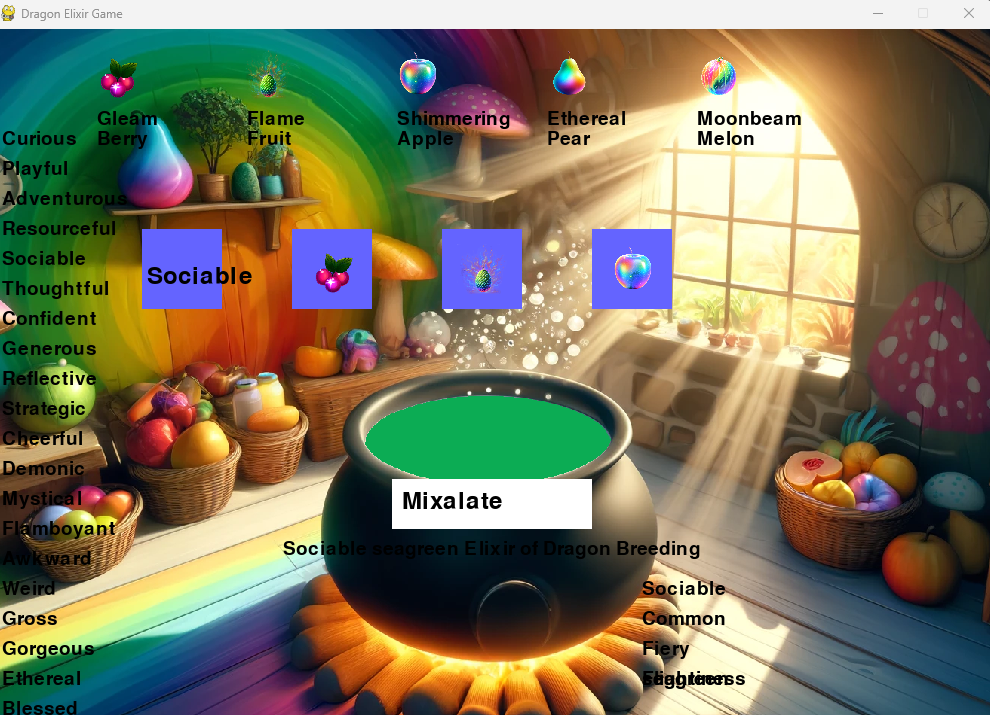
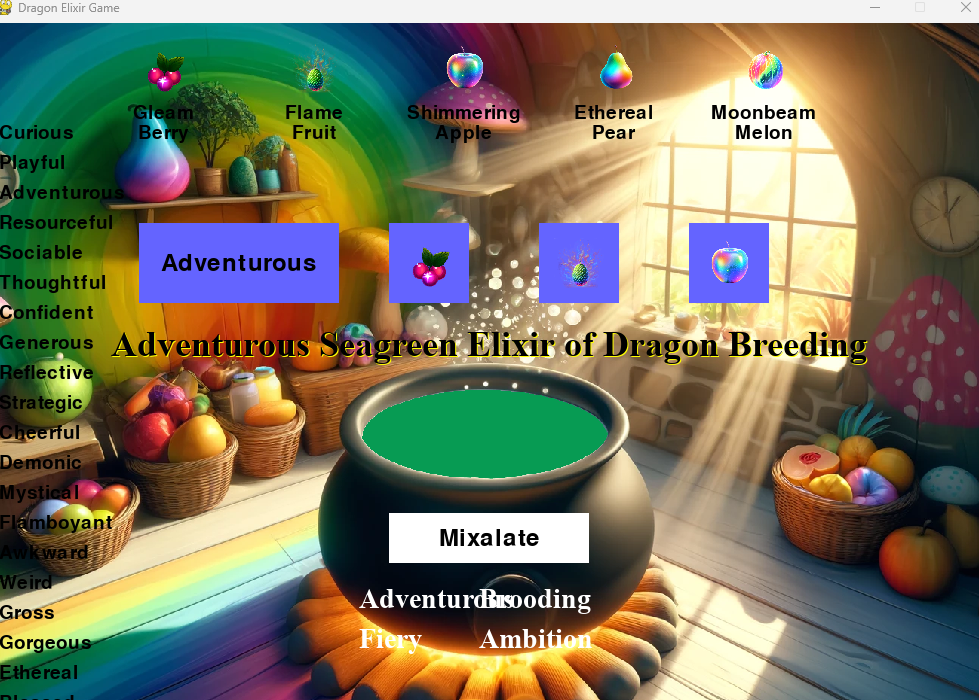
tweeaked

diff --git a/Mixolator.py b/Mixolator.py
@@ -17,6 +17,7 @@ BLACK = (0, 0, 0)
 GREY = (200, 200, 200)
 HOVER_COLOR = (170, 170, 170)
 SELECTED_COLOR = (100, 100, 255)
+TEXT_HIGHLIGHT = (255, 255, 0)  # Highlight color for text
 
 # Load images
 background = pygame.image.load("potionbackground.png").convert_alpha()  # Load with alpha for transparency
@@ -60,7 +61,7 @@ fruit_personality_keywords = {
 }
 
 # Position of the fruit selection boxes
-fruit_positions = [(100, 20), (250, 20), (400, 20), (550, 20), (700, 20)]
+fruit_positions = [(150, 20), (300, 20), (450, 20), (600, 20), (750, 20)]
 
 # Personality keywords for player selection
 personality_keywords = [
@@ -73,13 +74,15 @@ personality_keywords = [
 # Create font
 font = pygame.font.Font(None, 36)
 small_font = pygame.font.Font(None, 28)
+fancy_font = pygame.font.Font(pygame.font.match_font('timesnewroman', bold=True), 36)
+fancy_small_font = pygame.font.Font(pygame.font.match_font('timesnewroman', bold=True), 28)
 
-# Create boxes for selections, adjusted lower
-selection_boxes = [pygame.Rect(150, 200, 80, 80), pygame.Rect(300, 200, 80, 80),
-                   pygame.Rect(450, 200, 80, 80), pygame.Rect(600, 200, 80, 80)]
+# Create boxes for selections, adjusted lower and wider for the first box
+selection_boxes = [pygame.Rect(150, 200, 200, 80), pygame.Rect(400, 200, 80, 80),
+                   pygame.Rect(550, 200, 80, 80), pygame.Rect(700, 200, 80, 80)]
 
-# Create mixalate button, moved down to the black part of the cauldron
-mixalate_button = pygame.Rect(400, 450, 200, 50)
+# Create mixalate button, moved up to touch the rim of the cauldron
+mixalate_button = pygame.Rect(400, 470, 200, 50)
 
 # Store selections
 selections = [None, None, None, None]
@@ -105,7 +108,14 @@ def get_color_name(requested_color):
         closest_name = webcolors.rgb_to_name(requested_color)
     except ValueError:
         closest_name = closest_color(requested_color)
-    return closest_name
+    return closest_name.capitalize()
+
+def draw_text(screen, text, font, color, rect, highlight=None):
+    if highlight:
+        highlight_surface = font.render(text, True, highlight)
+        screen.blit(highlight_surface, (rect.x + 1, rect.y + 1))
+    text_surface = font.render(text, True, color)
+    screen.blit(text_surface, rect)
 
 def draw_screen():
     # Draw the color swatch in the center of the screen behind the background
@@ -124,18 +134,18 @@ def draw_screen():
         fruit_name_lines = ["Gleam Berry", "Flame Fruit", "Shimmering Apple", "Ethereal Pear", "Moonbeam Melon"][i].split()
         for line_index, line in enumerate(fruit_name_lines):
             text = small_font.render(line, True, BLACK)
-            screen.blit(text, (pos[0] + 5, pos[1] + 60 + 20 * line_index))
+            screen.blit(text, (pos[0] + (50 - text.get_width()) // 2, pos[1] + 60 + 20 * line_index))
 
     # Draw selection boxes
     for i, box in enumerate(selection_boxes):
         pygame.draw.rect(screen, GREY if selections[i] is None else SELECTED_COLOR, box)
         if selections[i] is None:
             text = font.render("?", True, BLACK)
-            screen.blit(text, (box.x + 25, box.y + 25))
+            screen.blit(text, (box.x + (box.width - text.get_width()) // 2, box.y + (box.height - text.get_height()) // 2))
         else:
             if i == 0:  # Personality word selection
                 text = font.render(personality_keywords[selections[i]], True, BLACK)
-                screen.blit(text, (box.x + 5, box.y + 35))
+                screen.blit(text, (box.x + (box.width - text.get_width()) // 2, box.y + (box.height - text.get_height()) // 2))
             else:  # Fruit selections
                 screen.blit(fruit_images[selections[i]], (box.x + 15, box.y + 15))
 
@@ -148,17 +158,20 @@ def draw_screen():
     # Draw mixalate button
     pygame.draw.rect(screen, GREY if None in selections else WHITE, mixalate_button)
     text = font.render("Mixalate", True, BLACK)
-    screen.blit(text, (mixalate_button.x + 10, mixalate_button.y + 10))
+    screen.blit(text, (mixalate_button.x + (mixalate_button.width - text.get_width()) // 2, mixalate_button.y + (mixalate_button.height - text.get_height()) // 2))
 
     # Draw elixir result if created
     if elixir_color and elixir_personality and elixir_color_name and elixir_title:
-        title_text = small_font.render(elixir_title, True, BLACK)
-        screen.blit(title_text, (WIDTH//2 - title_text.get_width()//2, 510))  # Center the title below the mixalate button
+        title_text = fancy_font.render(elixir_title, True, BLACK)
+        draw_text(screen, elixir_title, fancy_font, BLACK, pygame.Rect(WIDTH//2 - title_text.get_width()//2, 300, title_text.get_width(), title_text.get_height()), TEXT_HIGHLIGHT)  # Center the title below the mixalate button
+
+        # Draw the trait words in two columns of two under the Mixalate button
         for i, word in enumerate(elixir_personality):
-            text = small_font.render(word, True, BLACK)
-            screen.blit(text, (int(WIDTH * 0.65), 550 + i * 30))  # Adjust x-coordinate to 65% of the screen width
-        color_name_text = small_font.render(elixir_color_name, True, BLACK)
-        screen.blit(color_name_text, (int(WIDTH * 0.65), 640))  # Adjust x-coordinate to 65% of the screen width
+            text = fancy_small_font.render(word, True, WHITE)
+            col = i % 2  # Column 0 or 1
+            row = i // 2  # Row 0 or 1
+            x_pos = 330 + col * 180  # Base x-coordinate for columns
+            screen.blit(text, (x_pos + (150 - text.get_width()) // 2, 540 + row * 40))  # Centering text within the columns
 
     pygame.display.flip()
 
@@ -192,7 +205,7 @@ def main():
                     g = random.choice(fruit_rgb_ranges[selections[2]])
                     b = random.choice(fruit_rgb_ranges[selections[3]])
                     elixir_color = (r, g, b)
-                    elixir_color_name = get_color_name(elixir_color)
+                    elixir_color_name = get_color_name(elixir_color).capitalize()
                     elixir_personality = [
                         random.choice(fruit_personality_keywords[selections[i]]) for i in range(1, 4)
                     ]
